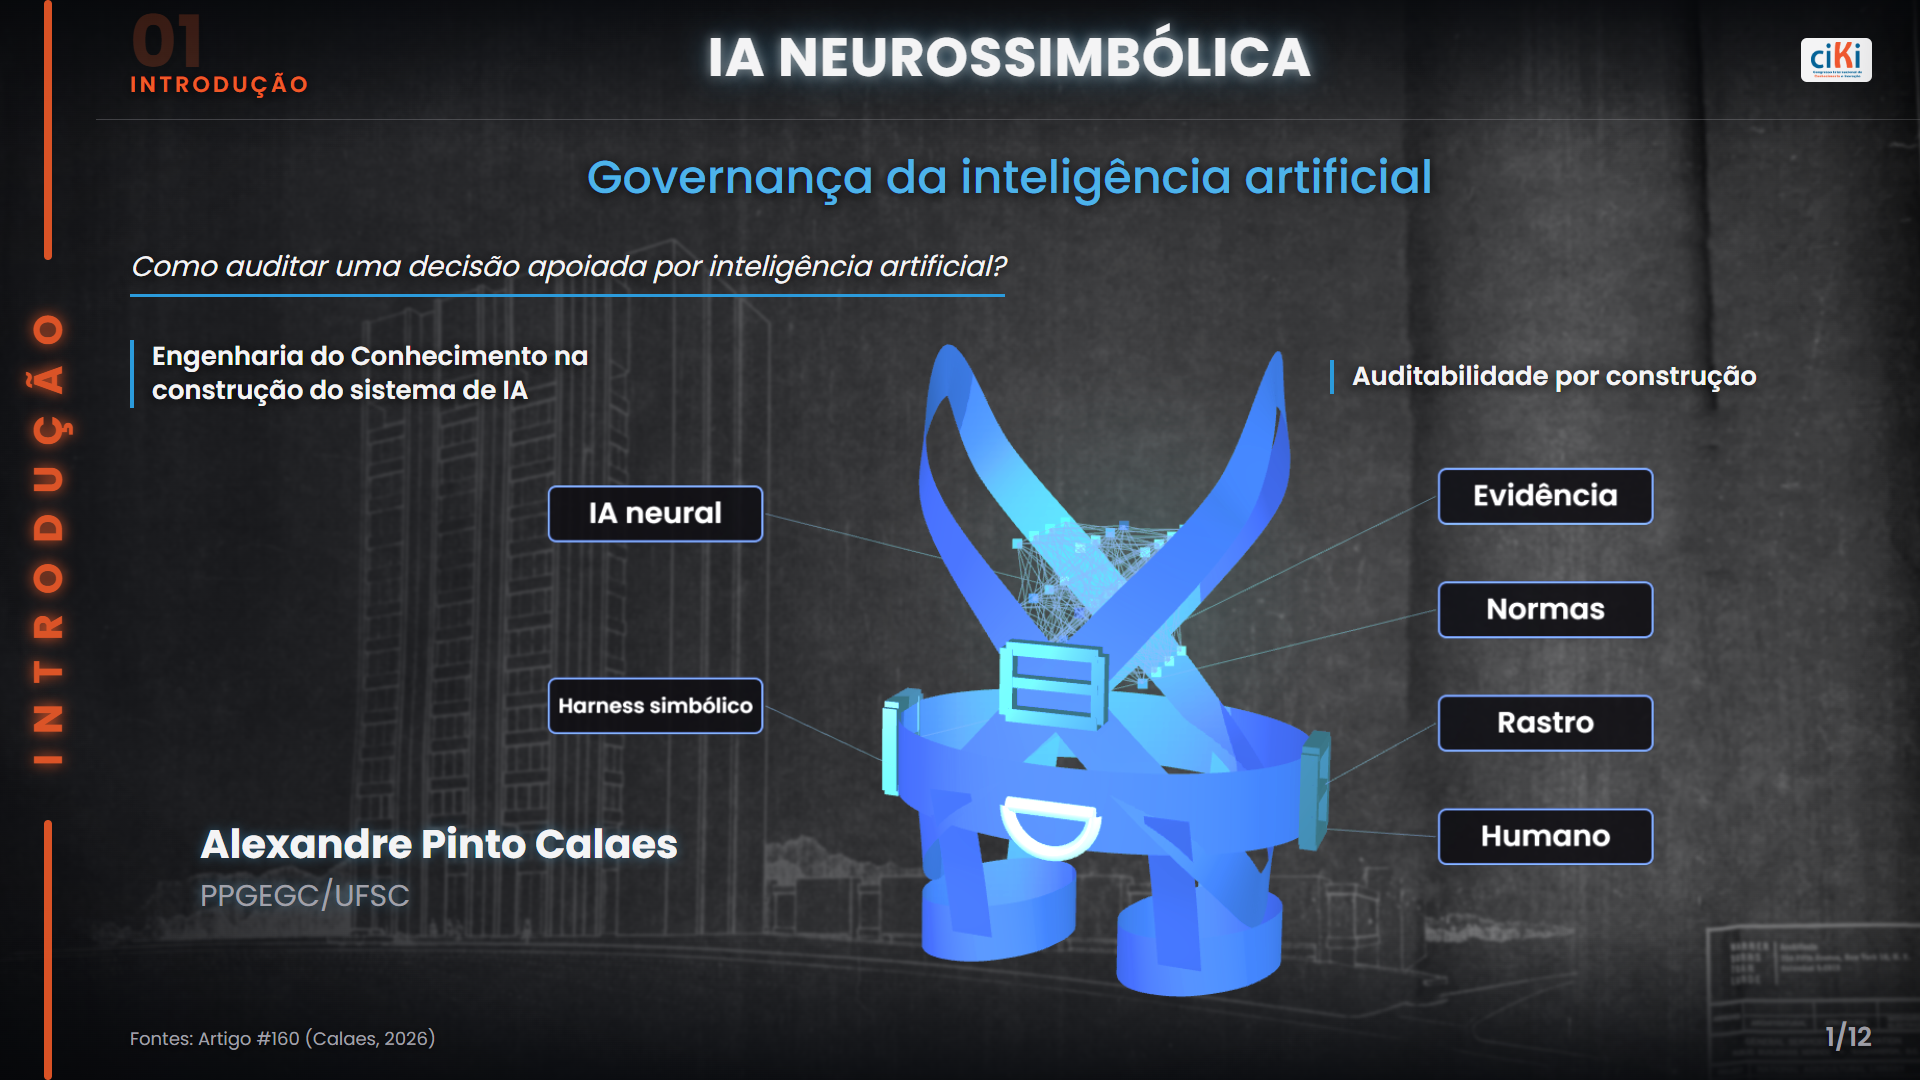
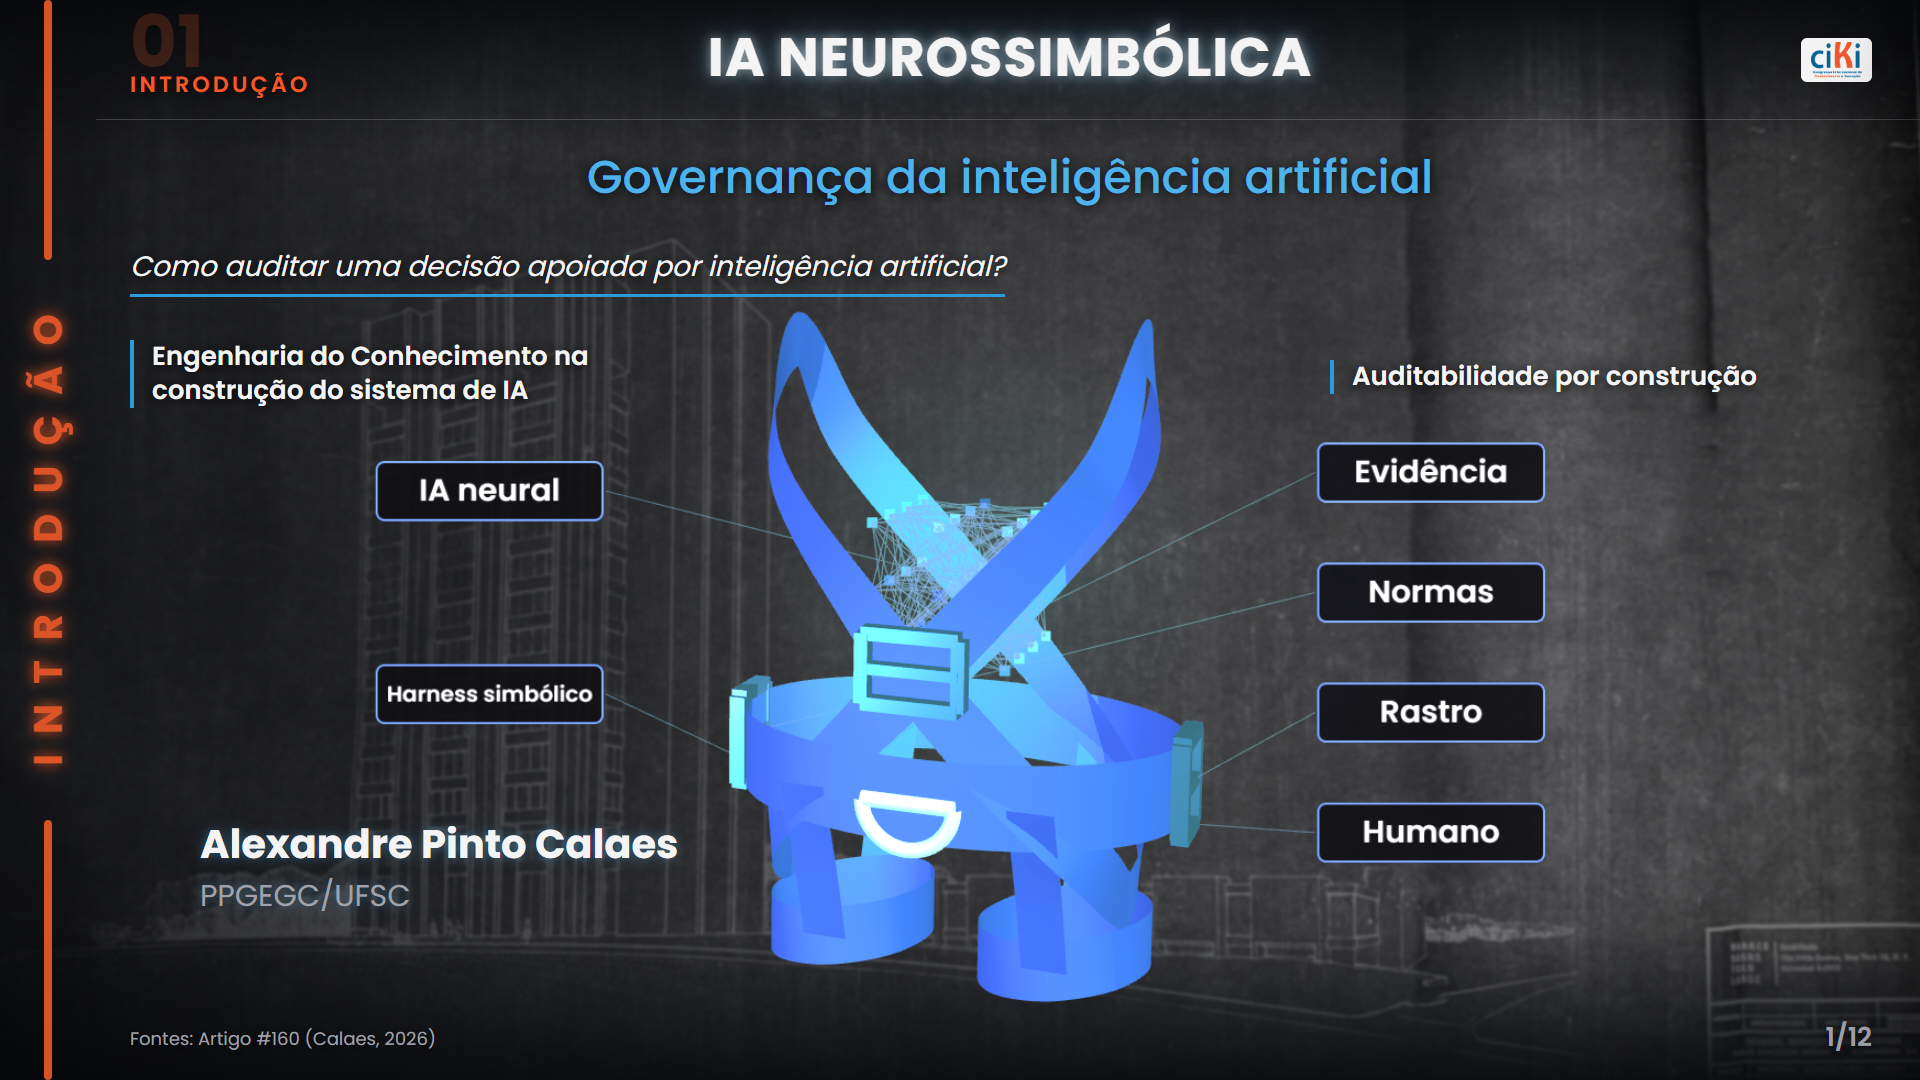
Capa: arnês centralizado entre as duas frases e ampliado

Changed region(s): [[0.1875, 0.275, 0.875, 0.9472]]

diff --git a/web/index.html b/web/index.html
@@ -7,7 +7,7 @@
 <link rel="stylesheet" href="fonts/poppins.css">
 <link rel="stylesheet" href="fonts/notosansmath.css">
 <link rel="stylesheet" href="kit.css">
-<link rel="stylesheet" href="deck.css?v=12">
+<link rel="stylesheet" href="deck.css?v=13">
 <link rel="stylesheet" href="matrix8.css">
 <link rel="stylesheet" href="paineis.css">
 </head>
@@ -24,7 +24,7 @@
 <p class="figt" data-open="s1-harness3d" tabindex="0" role="button" aria-label="Como ler o arnês da capa">Engenharia do Conhecimento na construção do sistema de IA</p>
 <p class="hlcap" aria-live="polite"></p>
 <p class="figl">Auditabilidade por construção</p>
-<div class="hitbox" data-open="s1-paleta" aria-label="As quatro condições: ver a legenda do arnês" style="left:700px;top:290px;width:504px;height:750px"></div>
+<div class="hitbox" data-open="s1-paleta" aria-label="As quatro condições: ver a legenda do arnês" style="left:700px;top:305px;width:520px;height:700px"></div>
 <p class="selo ident" data-open="s1-ficha" tabindex="0" role="button" aria-label="Ficha do artigo" style="left:200px;top:820px;cursor:zoom-in">Alexandre Pinto Calaes<br><span>PPGEGC/UFSC</span></p>
 <aside class="notes" data-t="30">Boa tarde. Hoje alguém na sua organização vai assinar um parecer escrito com ajuda de inteligência artificial. Pergunta simples: como essa pessoa prova cada afirmação que assinou? Eu defendo que a prova não pode vir depois, em forma de explicação. Ela precisa estar na arquitetura, antes da assinatura. O que vocês veem aqui é um arnês, um harness: ele envolve o modelo neural e prende quatro condições, evidência, norma, rastro e humano.</aside>
 </section>

diff --git a/web/deck.css b/web/deck.css
@@ -211,7 +211,7 @@ body.reduzir-movimento *{animation:none!important;transition:none!important}
 /* capa: mesma hierarquia dos demais (título > subtítulo > pergunta), título um pouco maior */
 .s1 .ttl{font-size:54px}
 .s1 .sub{font-size:46px}
-.s1 .fxslot{transform-origin:1400px 1040px;transform:translate(-100px,-45px) scale(1.04)}
+.s1 .fxslot{transform-origin:1208px 1040px;transform:translate(-248px,-40px) scale(1.1)}
 .fxslot[data-fx^="cover"]{filter:hue-rotate(28deg) brightness(1.15)}
 .s1 .sub{color:#4db3ea}
 .s1 .guia{top:250px}
